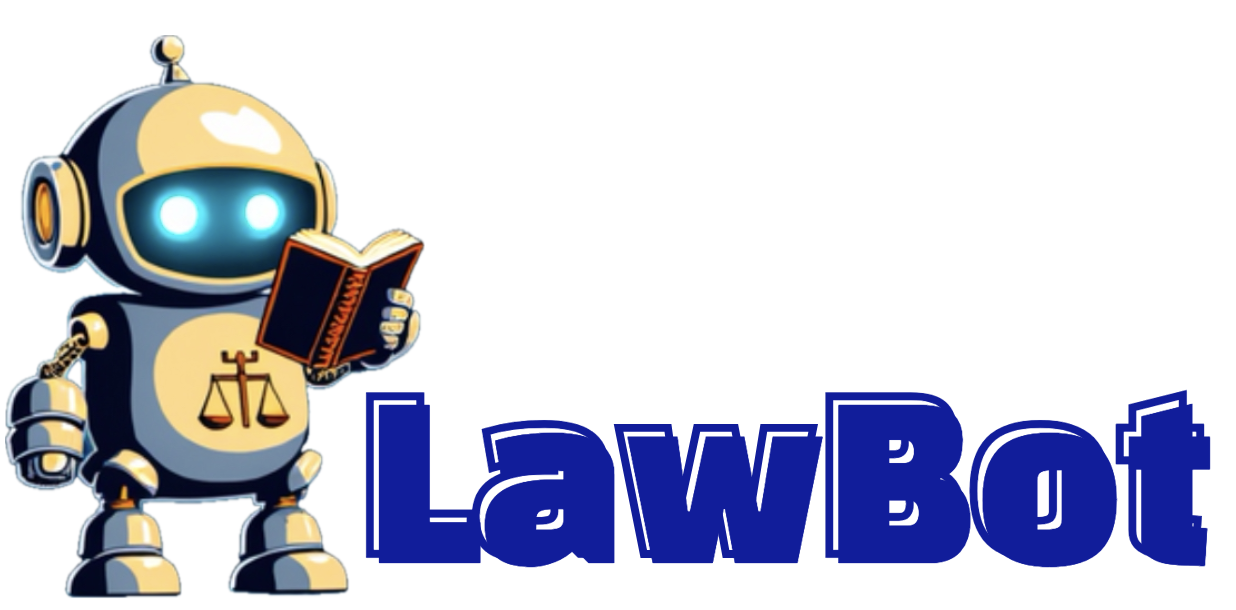
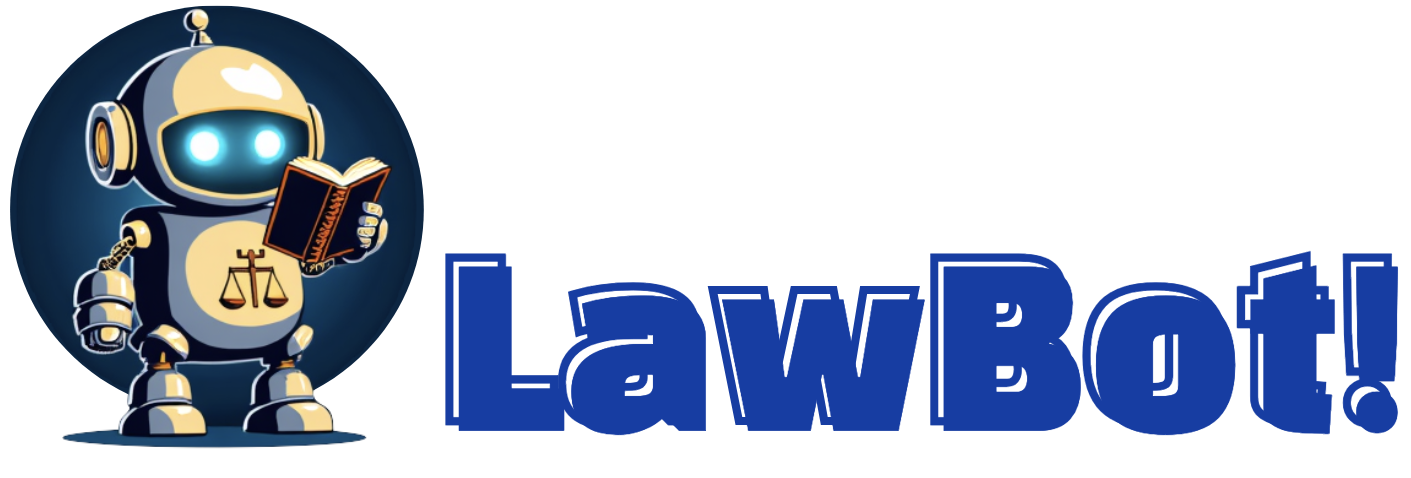
드디어 우리 연결을 해보자 성빈님 예린님 너뮤 고생 많으셨습니다 .. 최고야 하트

diff --git a/frontend/kiki/style.css b/frontend/kiki/style.css
@@ -3,7 +3,7 @@ body {
   justify-content: center;
   align-items: center;
   margin: 0;
-  /* font-family: "NanumSquareLight", sans-serif; */
+  /* font-family: "NanumGothic", sans-serif; */
   background-color: #f2faff;
   position: fixed;
 }
@@ -22,21 +22,6 @@ body {
   border-radius: 30px;
 }
 
-.login-btn {
-  position: fixed;
-  font-size: 1.5em; /* 글자 크기 */
-  text-align: center; /* 텍스트 중앙 정렬 */
-  background-color: #bee7ff;
-  transition: background-color 0.3s;
-  border: none;
-  border-radius: 50%;
-  cursor: pointer;
-  z-index: 1;
-  width: 3.5vw; /* 버튼의 가로 크기 */
-  height: 6vh; /* 버튼의 세로 크기 */
-  top: 4%;
-  left: 2%;
-}
 .logo {
   background-image: url("src/lawbot.jpg");
   background-size: cover;
@@ -47,14 +32,14 @@ body {
   margin-top: 20px;
   margin-left: 25px;
   margin-bottom: 30px;
-  width: 9vw;
-  height: 8vh;
+  width: 12.7vw;
+  height: 7.5vh;
   position: relative;
 }
 
 .word-btn,
 .main-btn {
-  /* font-family: "NanumSquareLight", sans-serif; */
+  /* font-family: "NanumGothic", sans-serif; */
   background-color: #83d1ff; /* 활성화된 버튼 색상 */
   position: absolute;
   color: black;
@@ -134,7 +119,7 @@ body {
 
 .chat-message.bot {
   align-self: flex-start;
-  /* font-family: "NanumSquareLight", sans-serif; */
+  /* font-family: "NanumGothic", sans-serif; */
   background-color: #bee7ff;
   border: none;
   font-size: 1.3em;
@@ -144,7 +129,7 @@ body {
 
 .chat-message.user {
   align-self: flex-end;
-  /* font-family: "NanumSquareLight", sans-serif; */
+  /* font-family: "NanumGothic", sans-serif; */
   background-color: #f2faff;
   border: none;
   font-size: 1.3em;
@@ -155,6 +140,17 @@ body {
 .chat-message.selected {
   border: none; /* 선택된 메시지에 테두리 추가 */
   background-color: #d3ffd3; /* 선택된 메시지 색상 변경 */
+}
+.audio-button {
+  font-size: 1.5em; /* 글자 크기 */
+  background-color: #bee7ff;
+  transition: background-color 0.3s;
+  border: none;
+  border-radius: 50%;
+  cursor: pointer;
+  z-index: 1;
+  width: 3.5vw; /* 버튼의 가로 크기 */
+  height: 6vh; /* 버튼의 세로 크기 */
 }
 
 /* ------------------------------------------------------------------*/
@@ -187,7 +183,7 @@ body {
   margin-bottom: 1vh;
 }
 .quick-reply {
-  /* font-family: "NanumSquareLight", sans-serif; */
+  /* font-family: "NanumGothic", sans-serif; */
   font-size: 1.3em;
   cursor: pointer;
   background-color: #bee7ff;
@@ -345,7 +341,7 @@ body {
 }
 
 #languageList li {
-  /* font-family: "NanumSquareLight", sans-serif; */
+  /* font-family: "NanumGothic", sans-serif; */
   margin: 10px 0;
   padding: 10px;
   background-color: #f4f4f9;
@@ -379,7 +375,7 @@ body {
 
 .input-box {
   position: fixed;
-  /* font-family: "NanumSquareLight", sans-serif; */
+  /* font-family: "NanumGothic", sans-serif; */
   width: 67%;
   height: 8vh;
   bottom: 8%;
@@ -402,7 +398,7 @@ body {
 /* 전송 버튼 */
 .send-btn {
   position: fixed;
-  /* font-family: "NanumSquareLight", sans-serif; */
+  /* font-family: "NanumGothic", sans-serif; */
   background-color: #bee7ff;
   border: none;
   border-radius: 10vh;

diff --git a/frontend/kiki/script.js b/frontend/kiki/script.js
@@ -818,6 +818,16 @@ function sendMessage() {
     setTimeout(() => {
       const botMessageElement = addMessage(botMessage, "bot");
 
+      const voiceButton = document.createElement("button");
+      voiceButton.textContent = "🎧";
+      voiceButton.className = "audio-button";
+      voiceButton.addEventListener("click", () => {
+        const utterance = new SpeechSynthesisUtterance(botMessage);
+        speechSynthesis.speak(utterance);
+      });
+
+      botMessageElement.appendChild(voiceButton);
+
       // 봇 메시지를 화면에 표시
       botMessageElement.scrollIntoView({ behavior: "smooth", block: "end" });
 
@@ -831,14 +841,14 @@ function sendMessage() {
 
 // OpenAI API 호출 함수
 async function getBotResponse(userMessage) {
-  const url = "https://lawbot.asuscomm.com/" + encodeURIComponent(userMessage);
-
+  const response = await fetch(
+    `https://lawbot.ddns.net/ask?question=${encodeURIComponent(userMessage)}`
+  );
   try {
-    const response = await fetch(url, {
-      method: "GET", // POST를 사용하는 경우 JSON 데이터 설정 필요
-    });
+    if (!response.ok) {
+      throw new Error(`HTTP error! Status: ${response.status}`);
+    }
 
-    // 응답 데이터 파싱
     const data = await response.json();
 
     // API 응답에서 answer 또는 reply 값을 반환

diff --git a/frontend/kiki/word_style.css b/frontend/kiki/word_style.css
@@ -21,21 +21,6 @@ body {
   background-color: #101fa7;
   border-radius: 30px;
 }
-.login-btn {
-  position: fixed;
-  font-size: 1.5em; /* 글자 크기 */
-  text-align: center; /* 텍스트 중앙 정렬 */
-  background-color: #bee7ff;
-  transition: background-color 0.3s;
-  border: none;
-  border-radius: 50%;
-  cursor: pointer;
-  z-index: 1;
-  width: 3.5vw; /* 버튼의 가로 크기 */
-  height: 6vh; /* 버튼의 세로 크기 */
-  top: 4%;
-  left: 2%;
-}
 
 .logo {
   background-image: url("src/lawbot.jpg");
@@ -47,8 +32,8 @@ body {
   margin-top: 20px;
   margin-left: 25px;
   margin-bottom: 30px;
-  width: 9vw;
-  height: 8vh;
+  width: 12.7vw;
+  height: 7.5vh;
   position: relative;
 }
 

diff --git a/frontend/kiki/index.html b/frontend/kiki/index.html
@@ -14,11 +14,11 @@
   </head>
   <body>
     <div class="main-container">
-      <button class="login-btn">🔑</button>
       <!-- 과거 이력 확인 및 용어 정리 -->
       <button id="btnmain" class="main-btn">💭</button>
       <button id="btnword" class="word-btn">📖</button>
       <button id="btnlist" class="list-btn">📌</button>
+
       <!-- 챗봇 영역 -->
       <div id="chatContainer" class="chat-container">
         <!-- 로고 -->

diff --git a/frontend/kiki/word.html b/frontend/kiki/word.html
@@ -14,7 +14,6 @@
   </head>
   <body>
     <div class="main-container">
-      <button id="loginButton" class="login-btn">🔑</button>
       <!-- 과거 이력 확인 및 용어 정리 -->
       <button id="btnmain" class="main-btn">💭</button>
       <button id="btnword" class="word-btn">📖</button>
